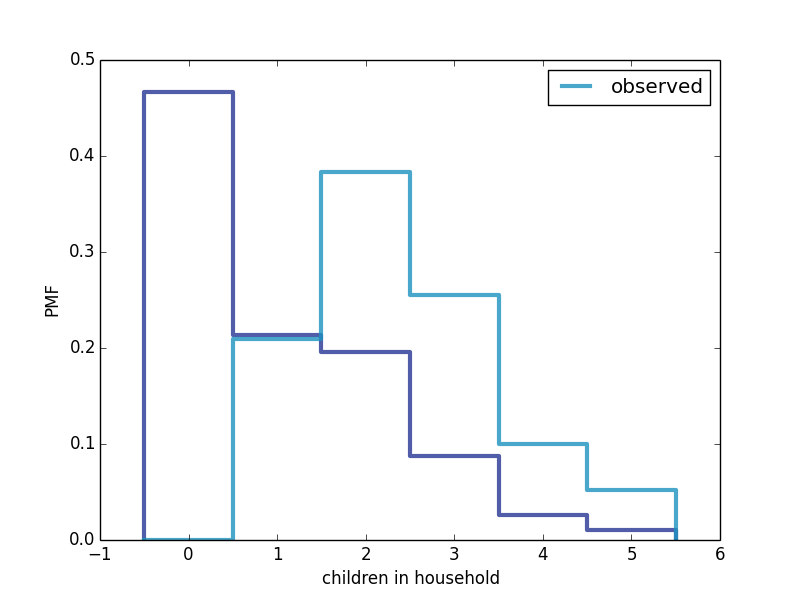
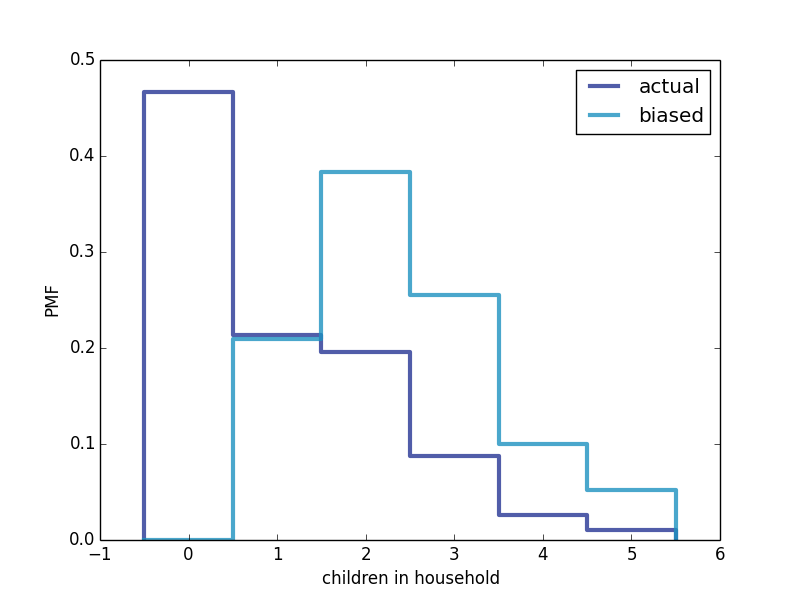
completed more stats problems

Changed region(s): [[0.6562, 0.09, 0.9062, 0.24]]

diff --git a/07-statistics.md b/07-statistics.md
@@ -87,12 +87,7 @@ import chap01soln
 resp = chap01soln.ReadFemResp()
 
 import thinkstats2
-pmf = thinkstats2.Pmf(resp.numkdhh)
-
-import thinkplot
-thinkplot.Pmf(pmf, label='numkdhh')
-thinkplot.Show()
-
+pmf = thinkstats2.Pmf(resp.numkdhh, label='actual')
 
 def BiasPmf(pmf, label=''):
     """Returns the Pmf with oversampling proportional to value.
@@ -118,9 +113,10 @@ def BiasPmf(pmf, label=''):
     new_pmf.Normalize()
     return new_pmf
 
-biased_pmf = BiasPmf(pmf, label='observed')
-thinkplot.PrePlot(2)
+biased_pmf = BiasPmf(pmf, label='biased')
 
+import thinkplot
+thinkplot.PrePlot(2)
 thinkplot.Pmfs([pmf, biased_pmf])
 thinkplot.Show(xlabel='children in household', ylabel='PMF')
 
@@ -130,7 +126,6 @@ print biased_pmf.Mean()
 
 Result:  
 [Children in Household PMF](https://github.com/Becca18/dsp/blob/master/img/children_in_household.png)
-[<img src="img/children_in_household.jpg" title=“Children in House”/>](https://github.com/Becca18/dsp/blob/master/img/children_in_household.png)
 
 The mean of the actual distribution of the number of children under 18 in the household is 1.02.
 The mean of the biased distribution of the number of children under 18 in the household is 2.40.
@@ -138,10 +133,44 @@ The mean of the biased distribution of the number of children under 18 in the ho
 ###Q3. [Think Stats Chapter 4 Exercise 2](statistics/4-2-random_dist.md) (random distribution)  
 This questions asks you to examine the function that produces random numbers.  Is it really random?  A good way to test that is to examine the pmf and cdf of the list of random numbers and visualize the distribution.  If you're not sure what pmf is, read more about it in Chapter 3.  
 
+Code:  
+
+```
+import random
+sample = []
+for i in range(0,1000):
+    sample.append(random.random())
+
+import thinkstats2
+pmf = thinkstats2.Pmf(sample)
+cdf = thinkstats2.Cdf(sample)
+
+import thinkplot
+thinkplot.Pmf(pmf, label='PMF')
+thinkplot.Show(xlabel='Random Number between 0 and 1', ylabel='PMF')
+
+thinkplot.Cdf(cdf, label='CDF')
+thinkplot.Show(xlabel='Random Number between 0 and 1', ylabel='CDF')
+```
+Result:  
+Yes, the function produces random numbers - the distribution is shown to be uniform in the PMF plot and the CDF plot.
+
+
 ###Q4. [Think Stats Chapter 5 Exercise 1](statistics/5-1-blue_men.md) (normal distribution of blue men)
 This is a classic example of hypothesis testing using the normal distribution.  The effect size used here is the Z-statistic. 
 
+Code:  
+```
+#5'10" = 70" = 177.8cm
+#6'1" = 73" = 185.42cm
 
+import scipy.stats
+Blue_man_range = scipy.stats.norm.cdf(185.42, loc=178, scale=7.7)-scipy.stats.norm.cdf(177.8, loc=178, scale=7.7)
+print Blue_man_range
+```
+
+Result:  
+34.27% of the U.S. male population is in the Blue Man Group height range.  
 
 ###Q5. Bayesian (Elvis Presley twin) 
 
@@ -149,7 +178,71 @@ Bayes' Theorem is an important tool in understanding what we really know, given 
 
 Elvis Presley had a twin brother who died at birth.  What is the probability that Elvis was an identical twin? Assume we observe the following probabilities in the population: fraternal twin is 1/125 and identical twin is 1/300.  
 
->> REPLACE THIS TEXT WITH YOUR RESPONSE
+Code:  
+
+```
+from thinkbayes import Pmf
+from fractions import Fraction
+
+#first way to code this problem
+pmf = Pmf()
+
+pmf.Set('Identical', Fraction(1, 300))
+pmf.Set('Fraternal', Fraction(1, 125))
+
+pmf.Mult('Identical', 1)
+pmf.Mult('Fraternal', .5)
+
+pmf.Normalize()
+
+print pmf.Prob("Identical")
+
+#second way to code this problem
+class Elvis(Pmf):
+
+    def __init__(self, hypos):
+        Pmf.__init__(self)
+        for hypo in hypos:
+            if hypo == "Identical":
+                self.Set(hypo, Fraction(1, 300))
+            if hypo == "Fraternal":
+                self.Set(hypo, Fraction(1, 125))
+        self.Normalize()
+
+    def Update(self, data):
+
+        for hypo in self.Values():
+            like = self.Likelihood(data, hypo)
+            self.Mult(hypo, like)
+        self.Normalize()
+
+    mixes = {
+        'Identical':dict(boy=1, girl=0),
+        'Fraternal':dict(boy=0.5, girl=0.5),
+        }
+
+    def Likelihood(self, data, hypo):
+        mix = self.mixes[hypo]
+        like = mix[data]
+        return like
+
+
+def main():
+    hypos = ['Identical', 'Fraternal']
+
+    pmf = Elvis(hypos)
+
+    pmf.Update('boy')
+
+    for hypo, prob in pmf.Items():
+        print hypo, prob
+
+
+if __name__ == '__main__':
+    main()
+```
+Result:  
+The probability that Elvis was an identical twin given the above information is 45.45%.  
 
 ---
 
